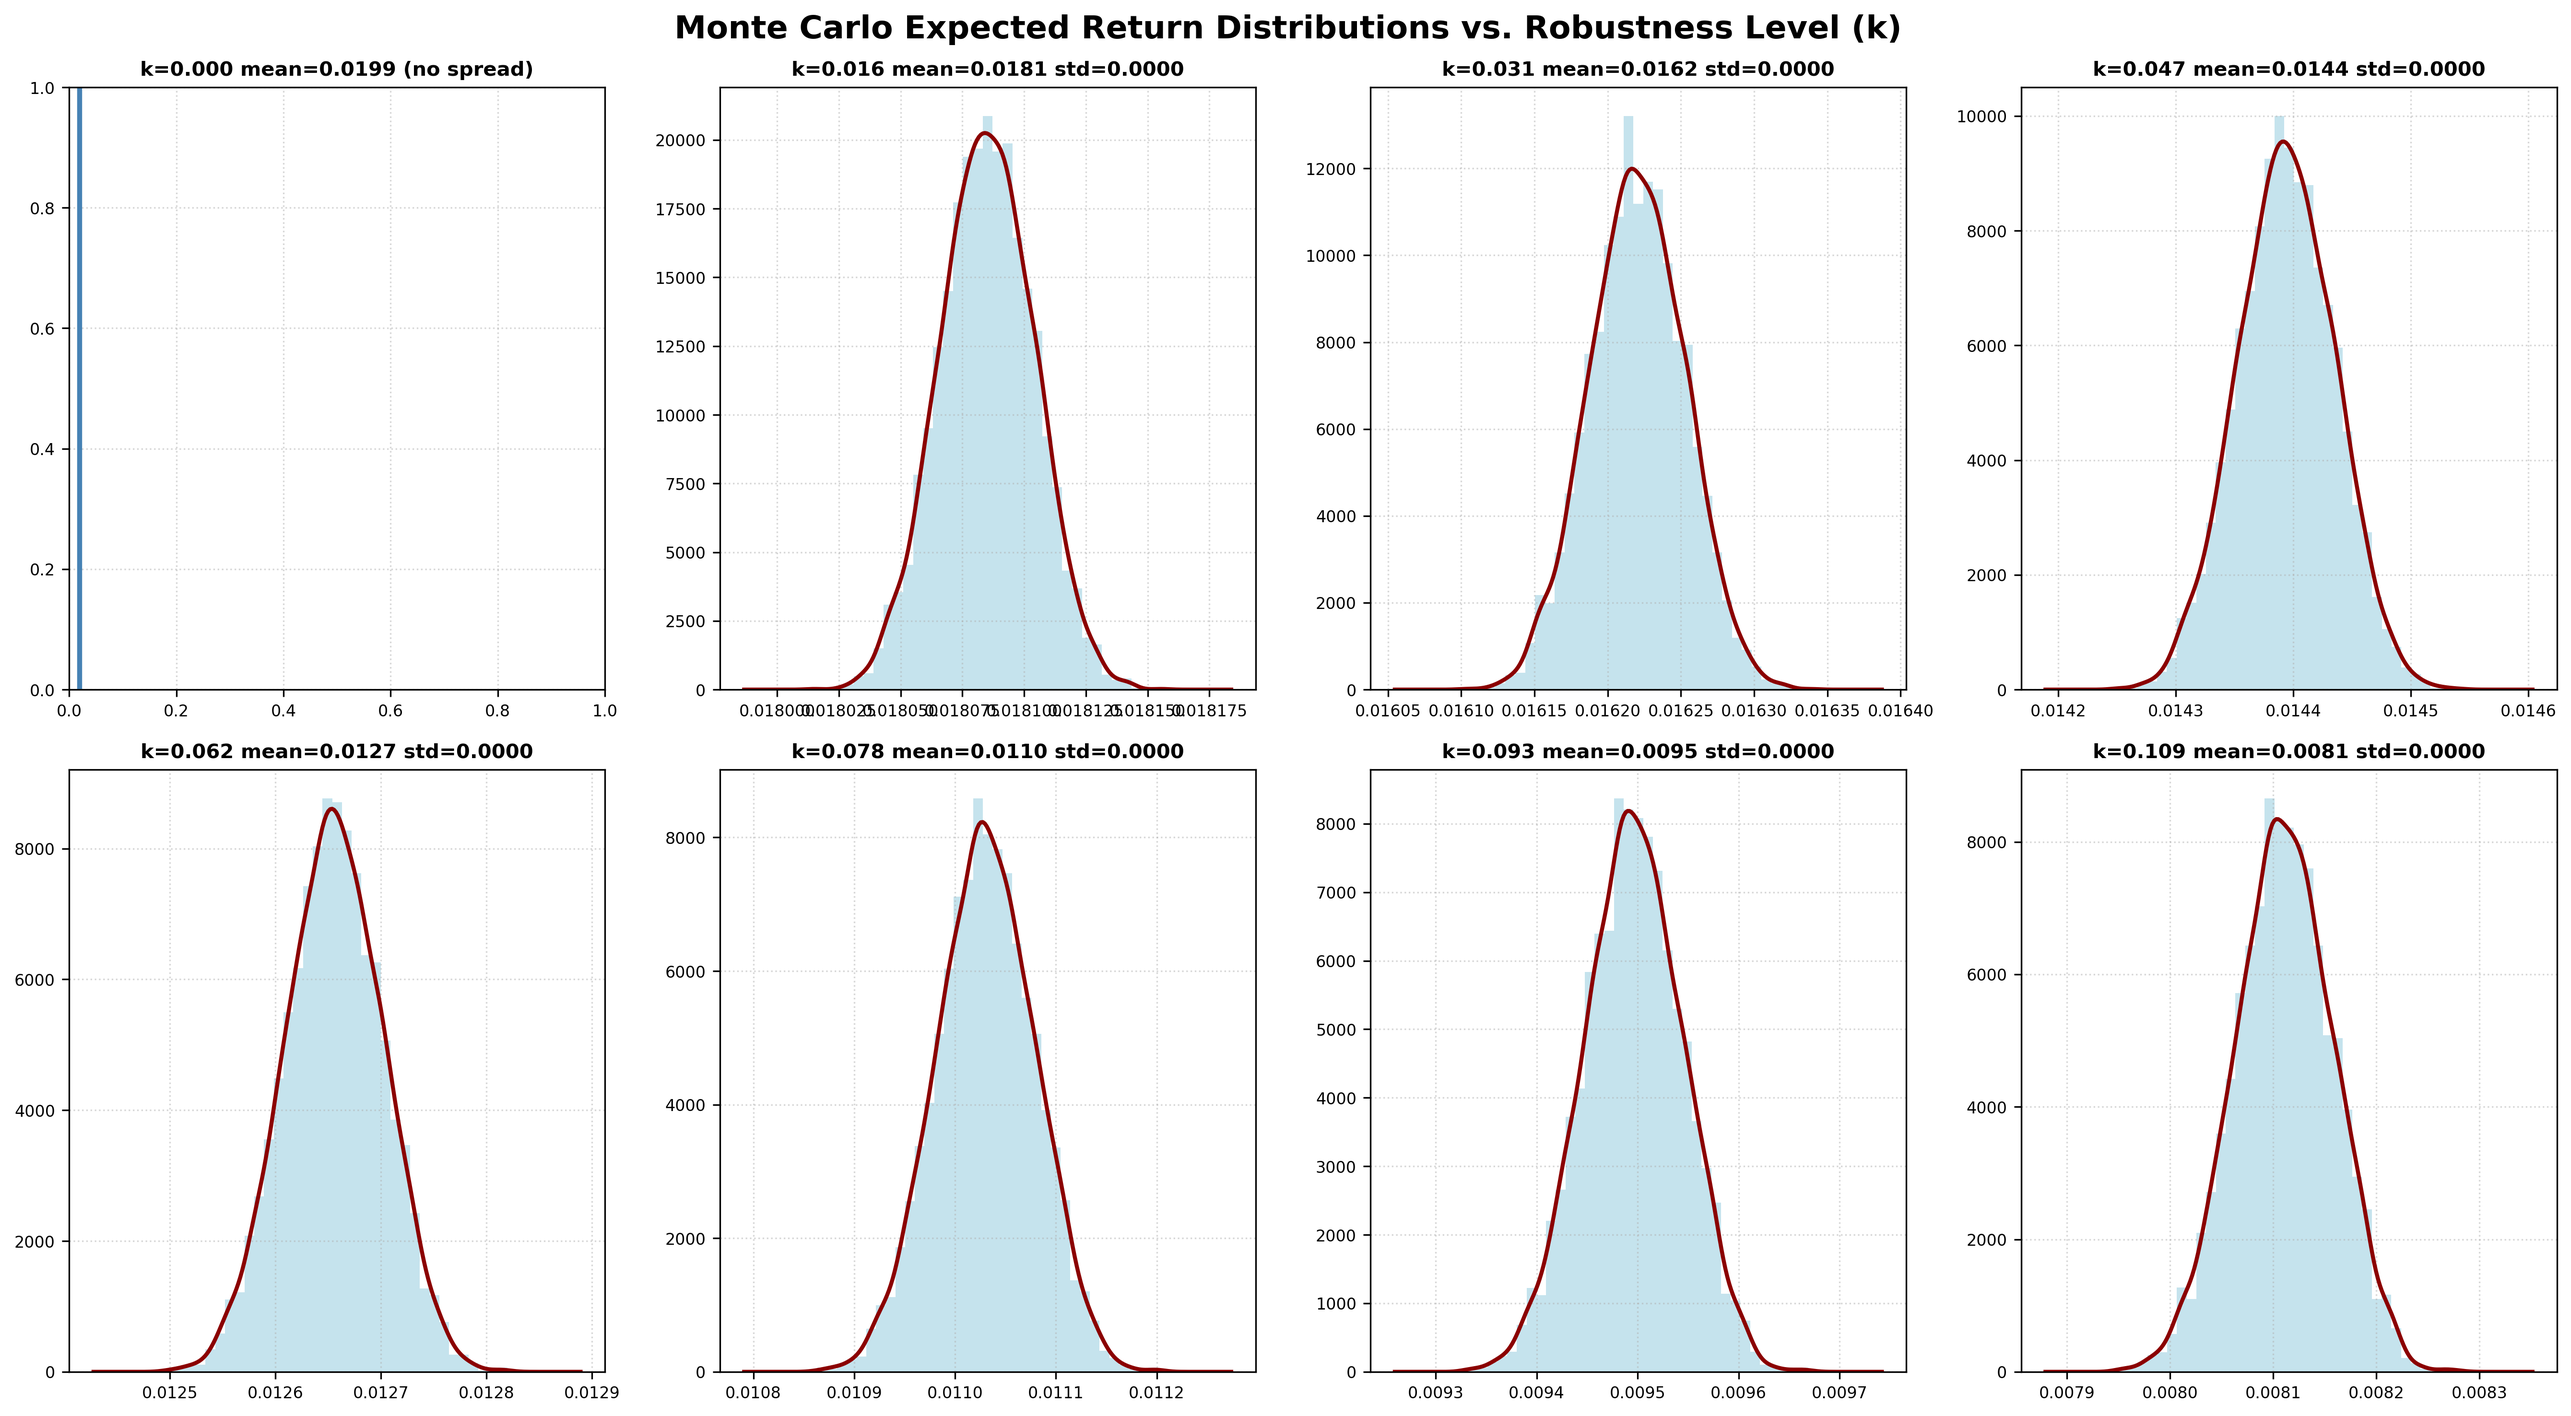
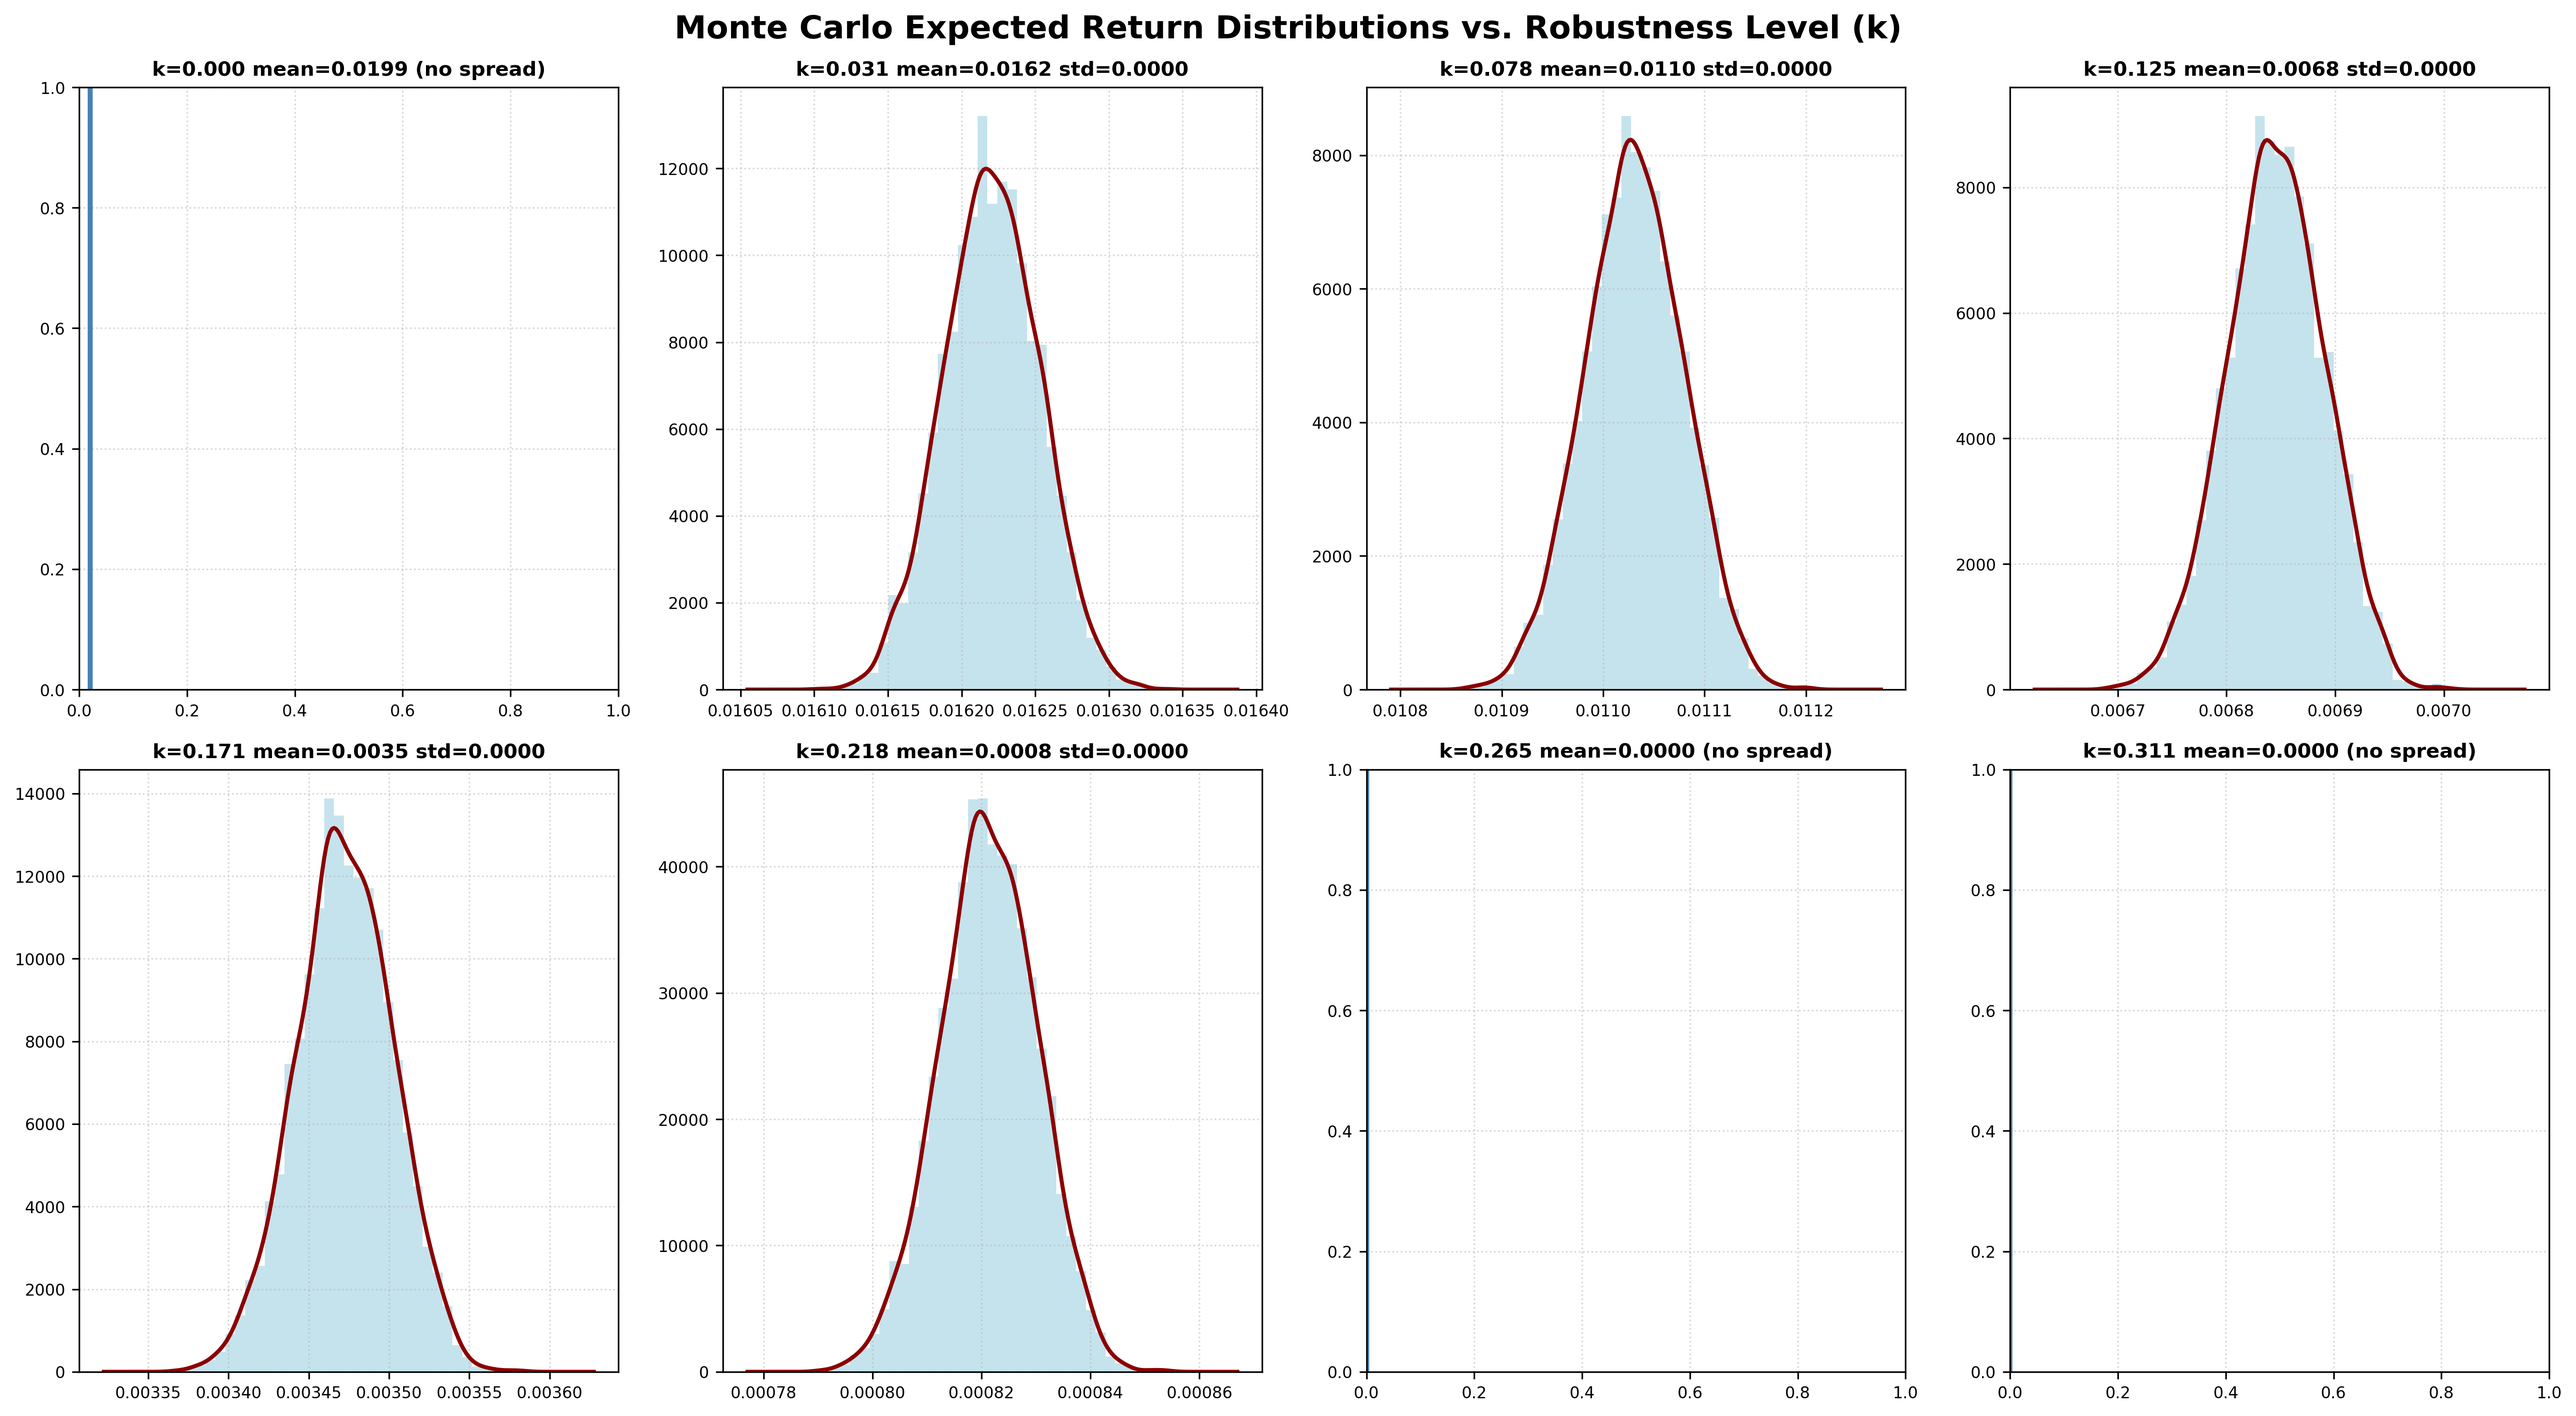
Add alpha=1.0 and gross exposure metrics to robust calibration plots

diff --git a/src/plotting.py b/src/plotting.py
@@ -91,16 +91,20 @@ def plot_return_distributions(results, selected_alphas, save_path=None):
 
 def plot_portfolio_metrics(results, alpha_grid, save_path=None):
     """
-    Plots four key portfolio metrics as a function of alpha:
+    Plots six key portfolio metrics as a function of alpha:
     - Expected Daily Return
     - Daily Volatility
     - Daily Sharpe Ratio
     - Weight Concentration (Herfindahl-Hirschman Index, HHI)
+    - Gross Exposure (Sum of |w_i|)
+    - Active Asset Count (number of assets with w_i > 1e-4)
     """
     expected_returns = []
     volatilities = []
     sharpe_ratios = []
     hhi_values = []
+    gross_exposures = []
+    active_counts = []
     
     for alpha in alpha_grid:
         w = results[alpha]["weights"]
@@ -110,8 +114,10 @@ def plot_portfolio_metrics(results, alpha_grid, save_path=None):
         volatilities.append(np.std(r))
         sharpe_ratios.append(np.mean(r) / np.std(r) if np.std(r) > 1e-8 else 0.0)
         hhi_values.append(np.sum(w ** 2))
+        gross_exposures.append(np.sum(np.abs(w)))
+        active_counts.append(np.sum(w > 1e-4))
 
-    fig, axs = plt.subplots(2, 2, figsize=(12, 8))
+    fig, axs = plt.subplots(3, 2, figsize=(12, 12))
     
     # 1. Expected Return
     axs[0, 0].plot(alpha_grid, expected_returns, color="darkblue", marker="o", markersize=4)
@@ -128,16 +134,28 @@ def plot_portfolio_metrics(results, alpha_grid, save_path=None):
     # 3. Sharpe Ratio
     axs[1, 0].plot(alpha_grid, sharpe_ratios, color="darkgreen", marker="^", markersize=4)
     axs[1, 0].set_title("Daily Sharpe Ratio", fontsize=12, fontweight="bold")
-    axs[1, 0].set_xlabel(r"Robustness Level $\alpha$", fontsize=10)
     axs[1, 0].set_ylabel("Sharpe Ratio", fontsize=10)
     axs[1, 0].grid(True, linestyle=":", alpha=0.6)
     
     # 4. HHI Concentration
     axs[1, 1].plot(alpha_grid, hhi_values, color="purple", marker="d", markersize=4)
     axs[1, 1].set_title("Portfolio Concentration (HHI)", fontsize=12, fontweight="bold")
-    axs[1, 1].set_xlabel(r"Robustness Level $\alpha$", fontsize=10)
     axs[1, 1].set_ylabel("HHI (1/N = equal, 1 = concentrated)", fontsize=10)
     axs[1, 1].grid(True, linestyle=":", alpha=0.6)
+
+    # 5. Gross Exposure
+    axs[2, 0].plot(alpha_grid, gross_exposures, color="darkorange", marker="p", markersize=4)
+    axs[2, 0].set_title("Gross Exposure (Sum of |w_i|)", fontsize=12, fontweight="bold")
+    axs[2, 0].set_xlabel(r"Robustness Level $\alpha$", fontsize=10)
+    axs[2, 0].set_ylabel("Gross Exposure", fontsize=10)
+    axs[2, 0].grid(True, linestyle=":", alpha=0.6)
+
+    # 6. Active Asset Count
+    axs[2, 1].plot(alpha_grid, active_counts, color="teal", marker="x", markersize=4)
+    axs[2, 1].set_title("Number of Active Assets", fontsize=12, fontweight="bold")
+    axs[2, 1].set_xlabel(r"Robustness Level $\alpha$", fontsize=10)
+    axs[2, 1].set_ylabel("Active Asset Count", fontsize=10)
+    axs[2, 1].grid(True, linestyle=":", alpha=0.6)
     
     plt.suptitle("Portfolio Performance Metrics vs. Robustness Sweep", fontsize=14, fontweight="bold", y=0.98)
     plt.tight_layout()
@@ -244,8 +262,9 @@ def plot_monte_carlo_distributions(results, alpha_grid, mu, Sigma, Omega, T, sav
     axs = axs.ravel()  # Flatten into 8 subplots
     
     n_alphas = len(alpha_grid)
-    # Take the first 8 alphas
-    selected_alphas = alpha_grid[:8]
+    # Take 8 alphas evenly spaced across the entire grid (from index 0 to index 20)
+    selected_indices = [0, 2, 5, 8, 11, 14, 17, 20]
+    selected_alphas = [alpha_grid[i] for i in selected_indices]
     
     # Run Monte Carlo simulation for N assets
     N = len(mu)

diff --git a/src/main.py b/src/main.py
@@ -70,7 +70,7 @@ def main():
     # Chart 2: Return distributions comparing MVO, Rule of Thumb, and Robust
     # Finding alpha closest to 0.23 (half of average Sharpe ratio of 0.46)
     closest_rot_alpha = alpha_grid[np.argmin(np.abs(alpha_grid - 0.23))]
-    selected_alphas = [0.0, closest_rot_alpha, 0.5]
+    selected_alphas = [0.0, closest_rot_alpha, 0.5, 1.0]
     plotting.plot_return_distributions(
         results, 
         selected_alphas, 
